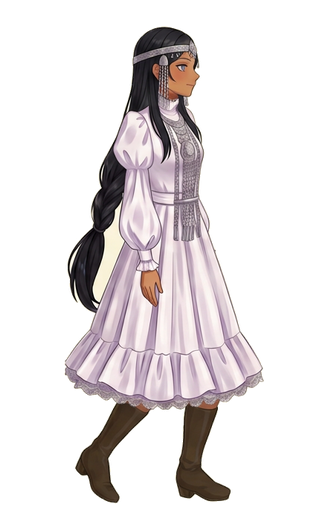
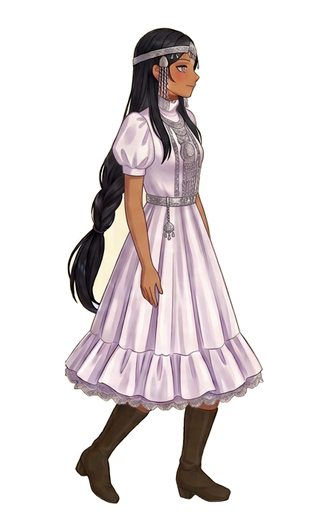
Руки в походке опущены, два кадра прыжка

diff --git a/Concepts/jump/slice_jump.py b/Concepts/jump/slice_jump.py
@@ -1,47 +1,45 @@
-"""Режет лист походки на кадры и кладёт их в Assets/Art/Heroine/Walk.
+"""Режет лист прыжка на 2 кадра и кладёт их в Assets/Art/Heroine/Jump.
 
-Тот же приём, что в Concepts/attack/slice_attack.py: альфа снимается
-заливкой от границы по цвету фона, дыры внутри фигуры вычищаются,
-каждая фигура приводится к общей высоте (иначе в игре пульсирует
-рост), и головы всех кадров ставятся на одну и ту же точку — чтобы
-корпус не ездил влево-вправо и чтобы переход с ходьбы на удар не
-дёргался.
+Почему не полный Concepts/walk/slice_walk.py: тот рассчитан ровно на три
+фигуры в ряд, а модель на листе прыжка даёт три — из них средняя оказалась
+обычным шагом, а не фазой прыжка. Поэтому здесь та же логика (альфа снимается
+заливкой от границы по цвету фона, каждая фигура приводится к общей высоте,
+головы ставятся на одну точку), но берутся фигуры 1 и 3.
 
-Отличия от резальщика атаки:
-  * холст 330 px, а не 560: ходьбе широкий холст не нужен;
-  * пивот остаётся ровно посередине (165 px), как у прежних кадров,
-    поэтому кадры атаки продолжают попадать в ту же точку;
-  * кадров три, а не четыре. Модель надёжно рисует три фигуры в ряд;
-    четыре она уводит в сетку 2x2 и теряет различие поз. Три кадра при
-    9 fps дают те же 0.33 с на цикл, что и четыре при 12.
+Почему не поза с подтянутыми коленями (Concepts/jump/jump_sheet_v1b.png):
+там фигуры 482 и 619 px, разница 28%. Прыжок в платформере обязан держать
+рост: при выравнивании по общей высоте сжатая поза растянулась бы вдвое, а
+без выравнивания прыжок выглядел бы как уменьшение героини. Поэтому взяты
+позы в полный рост (649 и 674 px, разброс 4%) — разлетающиеся руки и коса
+считываются как «в воздухе», а размер остаётся прежним.
+
+Рамка, высота, точка под ступнями и пивот — ровно как у кадров ходьбы, чтобы
+переход ходьба -> прыжок -> ходьба не дёргался.
 """
+import hashlib
 import os
 import re
 import subprocess
-import hashlib
 from collections import deque
 
-SHEET = 'Concepts/walk/walk_sheet_v9a.png'
-OUT_DIR = 'Assets/Art/Heroine/Walk'
+SHEET = 'Concepts/jump/jump_sheet_v1a.png'
+OUT_DIR = 'Assets/Art/Heroine/Jump'
+META_TPL = 'Assets/Art/Heroine/Walk/walk_1.png.meta'
 CANVAS_W, CANVAS_H = 330, 512
-WALK_PIVOT_PX = 165      # пивот прежних кадров: ровно середина холста
-TARGET_H = 479           # общая высота фигуры в пикселях
+TARGET_H = 479           # общая высота фигуры, как у кадров ходьбы
 FEET_Y = 504             # на какой высоте стоят ступни
 HEAD_FRACTION = 0.30
+PICK = (0, 2)           # фигуры 1 и 3, средняя (шаг) пропускается
 
 os.makedirs(OUT_DIR, exist_ok=True)
+
+BG = None
 
 
 def im_size(img):
     a, b = subprocess.run(['identify', '-format', '%w %h', img],
                           capture_output=True, text=True).stdout.split()
     return int(a), int(b)
-
-
-# Фон берём с угла листа, а не задаём порогами: на этом листе он не
-# белый, а кремовый (245, 240, 216), и проверка «все каналы > 236»
-# его не узнавала — весь лист считался одной фигурой.
-BG = None
 
 
 def is_bg(px, i):
@@ -80,8 +78,7 @@ def flood_mask(px, w, h):
 
 
 def clear_enclosed(rgba, mask, w, h):
-    """Вычищает белые дыры, оказавшиеся внутри фигуры (между рукавом и
-    туловищем, между косой и платьем)."""
+    """Вычищает дыры фона, оказавшиеся внутри фигуры."""
     seen = bytearray(w * h)
     q = deque()
     for x in range(w):
@@ -141,8 +138,6 @@ def components(mask, w, h, min_area):
 
 
 def head_centre(mask, w, h, box):
-    """Середина головы по верхним HEAD_FRACTION высоте фигуры: не зависит
-    от позы рук и ног, в отличие от середины всей рамки."""
     x0, y0, x1, y1 = box
     cut = y0 + max(1, int((y1 - y0) * HEAD_FRACTION))
     cols = [x for x in range(x0, x1)
@@ -157,17 +152,18 @@ def alpha_mask(path):
     return px, w, h
 
 
-# --- опорная точка: где голова на НЫНЕШНИХ кадрах ходьбы. Считаем до
-# перезаписи файлов, иначе опорой станет сам себя.
+# --- опорная точка берётся с УЖЕ готовых кадров ходьбы, чтобы в прыжке
+#     корпус не уезжал вбок. Только walk_1..3: walk_4..8 — легаси от
+#     прежнего четырёхкадрового цикла и в среднем сбивали бы точку.
 walk_centres = []
-for i in range(1, 5):
+for i in (1, 2, 3):
     px, w, h = alpha_mask(f'Assets/Art/Heroine/Walk/walk_{i}.png')
     m = bytearray(255 if a > 40 else 0 for a in px[3::4])
     boxes = components(m, w, h, 2000)
     if boxes:
         walk_centres.append(head_centre(m, w, h, max(boxes, key=lambda b: b[1] - b[0])))
 TARGET_HEAD_X = sum(walk_centres) / len(walk_centres)
-print(f'корпус на прежних кадрах ходьбы: {TARGET_HEAD_X:.1f}px '
+print(f'корпус на кадрах ходьбы: {TARGET_HEAD_X:.1f}px '
       f'(разброс {max(walk_centres) - min(walk_centres):.1f}px)')
 
 W, H = im_size(SHEET)
@@ -181,40 +177,41 @@ painted = bytearray(src)
 for i in range(W * H):
     painted[i * 4 + 3] = mask[i]
 fixed, holes = clear_enclosed(bytes(painted), mask, W, H)
-print(f'белых дыр вычищено: {holes}')
+print(f'дыр вычищено: {holes}')
 
 boxes = components(mask, W, H, 2000)
-print('фигур найдено:', len(boxes))
-if len(boxes) != 3:
-    raise SystemExit('ожидалось ровно 3 фигуры')
+print('фигур найдено:', len(boxes), '-> берём', [i + 1 for i in PICK])
+if len(boxes) < 3:
+    raise SystemExit('ожидалось 3 фигуры на листе, чтобы пропустить среднюю')
 
-heights = [b[3] - b[1] for b in boxes]
+picked = [boxes[i] for i in PICK]
+heights = [b[3] - b[1] for b in picked]
 print('высоты в листе:', heights,
       f'разброс {100 * (max(heights) - min(heights)) / min(heights):.1f}%')
+if (max(heights) - min(heights)) / min(heights) > 0.08:
+    raise SystemExit('разброс высот больше 8%: прыжок не должен менять рост')
 scales = [TARGET_H / h for h in heights]
 
-for idx, (x0, y0, x1, y1) in enumerate(boxes, 1):
+for n, (x0, y0, x1, y1) in enumerate(picked, 1):
     fw, fh = x1 - x0, y1 - y0
     crop = bytearray()
     for y in range(y0, y1):
         crop += fixed[(y * W + x0) * 4:(y * W + x1) * 4]
-    tmp = f'/tmp/wk_{idx}.rgba'
+    tmp = f'/tmp/jp_{n}.rgba'
     with open(tmp, 'wb') as f:
         f.write(bytes(crop))
-    scaled = f'/tmp/wk_{idx}_s.png'
-    scale = scales[idx - 1]
+    scaled = f'/tmp/jp_{n}_s.png'
+    scale = scales[n - 1]
     subprocess.run(['convert', '-size', f'{fw}x{fh}', '-depth', '8', f'rgba:{tmp}',
                     '-filter', 'Lanczos', '-resize',
                     f'{int(fw*scale)}x{int(fh*scale)}', scaled], check=True)
     sw, sh = im_size(scaled)
 
-    # после масштабирования ступни должны встать на FEET_Y
     dy = FEET_Y - sh
-    # голова после масштабирования — на ту же опорную точку
     hx = (head_centre(mask, W, H, (x0, y0, x1, y1)) - x0) * scale
     dx = round(TARGET_HEAD_X - hx)
 
-    out = f'{OUT_DIR}/walk_{idx}.png'
+    out = f'{OUT_DIR}/jump_{n}.png'
     left = min(0, dx)
     width = max(CANVAS_W, dx + sw) - left
     subprocess.run(['convert', '-size', f'{width}x{CANVAS_H}', 'xc:none', scaled,
@@ -223,20 +220,31 @@ for idx, (x0, y0, x1, y1) in enumerate(boxes, 1):
                    check=True)
     os.remove(tmp)
     os.remove(scaled)
-    print(f'кадр {idx}: {fw}x{fh} -> {sw}x{sh}, сдвиг {dx:+d}/{dy:+d}, {out}')
+    print(f'кадр {n}: {fw}x{fh} -> {sw}x{sh}, сдвиг {dx:+d}/{dy:+d}, {out}')
 
-    guid = hashlib.md5(('walk-v8-' + str(idx)).encode()).hexdigest()
-    sid = hashlib.md5(('walk-v8-sprite-' + str(idx)).encode()).hexdigest()
-    meta = open('Assets/Art/Heroine/Walk/walk_1.png.meta', encoding='utf-8').read()
+    guid = hashlib.md5(('jump-v1-' + str(n)).encode()).hexdigest()
+    sid = hashlib.md5(('jump-v1-sprite-' + str(n)).encode()).hexdigest()
+    meta = open(META_TPL, encoding='utf-8').read()
     meta = (meta.replace(re.search(r'guid: ([0-9a-f]{32})', meta).group(1), guid)
-                .replace(re.search(r'spriteID: ([0-9a-f]{32})', meta).group(1), sid)
-                .replace('  alignment: 1\n  spritePivot: {x: 0.2946, y: 0.0488}',
-                         '  alignment: 7\n  spritePivot: {x: 0.5, y: 0}'))
-    assert 'alignment: 7' in meta, meta[:200]
-    open(f'{OUT_DIR}/walk_{idx}.png.meta', 'w', encoding='utf-8').write(meta)
+                .replace(re.search(r'spriteID: ([0-9a-f]{32})', meta).group(1), sid))
+    assert 'alignment: 7' in meta and 'spritePivot: {x: 0.5, y: 0}' in meta, meta[:300]
+    open(f'{OUT_DIR}/jump_{n}.png.meta', 'w', encoding='utf-8').write(meta)
+    print(f'  guid {guid}')
 
-subprocess.run(['convert'] + [f'{OUT_DIR}/walk_{i}.png' for i in range(1, 4)]
+# мета папки
+folder = hashlib.md5(b'heroine-jump-folder').hexdigest()
+open(f'{OUT_DIR}.meta', 'w', encoding='utf-8').write(
+    'fileFormatVersion: 2\n'
+    f'guid: {folder}\n'
+    'folderAsset: yes\n'
+    'DefaultImporter:\n'
+    '  externalObjects: {}\n'
+    '  userData: \n'
+    '  assetBundleName: \n'
+    '  assetBundleVariant: \n')
+
+subprocess.run(['convert'] + [f'{OUT_DIR}/jump_{i}.png' for i in (1, 2)]
                + ['+append', '-background', '#2b2f3a', '-bordercolor', '#2b2f3a',
-                  '-border', '6', '/tmp/walk_preview.png'], check=True)
-print('превью: /tmp/walk_preview.png')
-print(f'пивот кадров: 0.5000 ({WALK_PIVOT_PX}px на холсте {CANVAS_W})')
+                  '-border', '6', '/tmp/jump_preview.png'], check=True)
+print('превью: /tmp/jump_preview.png')
+print('пивот кадров: 0.5000 (165px на холсте 330)')

diff --git a/Concepts/level_build.py b/Concepts/level_build.py
@@ -475,14 +475,19 @@ assert n == 1, f'спрайт героини: {n}'
 # 12 fps давали цикл 0.67 с, то есть 1.78 роста пути за цикл: ноги
 # переступали вдвое реже, чем шёл корпус, и это читалось как скольжение.
 # Четыре кадра на тех же 12 fps дают 0.33 с ~= 0.9 роста — почти натура.
+JUMP = ['6daf268587750afe7fbb340b4fe37705',     # взлёт: руки согнуты у груди
+        '336c0b56e3212ee017ac0d1395292e71']     # падение: руки в стороны, коса вверх
 ATTACK = ['dc1783b3a5c9607e12c781b8f88ebef7',   # замах
           'e58d2f83e7543184b89c6ebf520dc6f6',   # выпад с ножом
           'be4bc24d2bc77d76f96772ae3e2efa11']   # возврат
 frames = '\n'.join(
     f'  - {{fileID: 21300000, guid: {g}, type: 3}}' for g in
-    ['fbb4210db713f8fb5cdae1e8920be5b8',   # walk_1 — контакт, передняя рука вперёд
-     'c46dd459691fd1dd598775d241a19a84',   # walk_2 — пронос, обе руки опущены
-     '30d934941ae7437c05aed5354e92af3f'])  # walk_3 — второй контакт, руки наоборот
+    ['fbb4210db713f8fb5cdae1e8920be5b8',   # walk_1 — контакт, нога вперёд
+     'c46dd459691fd1dd598775d241a19a84',   # walk_2 — пронос, корпус ровный
+     '30d934941ae7437c05aed5354e92af3f'])  # walk_3 — второй контакт
+# Обе руки в каждом кадре висят вдоль тела, слегка согнуты, и поднимаются
+# ровно настолько же, как левая: прежний вариант выбрасывал правую руку
+# вперёд на уровень пояса, и шаг читался как нелепый взмах.
 s, n = re.subn(
     r'(--- !u!114 &400000006\nMonoBehaviour:.*?  m_EditorClassIdentifier: \n)'
     r'(?:(?!--- !u!).)*',
@@ -503,6 +508,9 @@ s, n = re.subn(
         '  walkFps: 9\n'
         '  idleSprite: {fileID: 21300000, guid: ' + IDLE_GUID
         + ', type: 3}\n'
+        '  jumpFrames:\n' + '\n'.join(
+            f'  - {{fileID: 21300000, guid: {g}, type: 3}}' for g in JUMP) + '\n'
+        '  jumpFallSpeed: 0.1\n'
         '  attackFrames:\n' + '\n'.join(
             f'  - {{fileID: 21300000, guid: {g}, type: 3}}' for g in ATTACK) + '\n'
         '  attackDuration: 0.32\n  attackCooldown: 0.1\n'

diff --git a/Assets/Scripts/PlayerController.cs b/Assets/Scripts/PlayerController.cs
@@ -78,6 +78,10 @@ public class PlayerController : MonoBehaviour
     public float walkFps = 12f;
     [Tooltip("Спрайт, когда героиня стоит на месте")]
     public Sprite idleSprite;
+    [Tooltip("Кадры прыжка по порядку: взлёт, падение (нарисованы лицом вправо)")]
+    public Sprite[] jumpFrames;
+    [Tooltip("С какой вертикальной скорости показывается падающий кадр, юниты/с")]
+    public float jumpFallSpeed = 0.1f;
 
     [Header("Если упала с края")]
     [Tooltip("Ниже этой высоты героиня возвращается в точку старта")]
@@ -419,6 +423,21 @@ public class PlayerController : MonoBehaviour
             return;
         }
 
+        // В воздухе — кадры прыжка: взлёт, пока ещё летит вверх, и падение,
+        // как только начала опускаться. Кадры взяты в полный рост, поэтому
+        // переход ходьба -> прыжок не меняет размер фигуры.
+        if (!grounded && jumpFrames != null && jumpFrames.Length > 0)
+        {
+            int frame = body.velocity.y > jumpFallSpeed ? 0 : jumpFrames.Length - 1;
+            if (frame != shownFrame)
+            {
+                shownFrame = frame;
+                spriteRenderer.sprite = jumpFrames[frame];
+            }
+            spriteRenderer.flipX = face < 0f;
+            return;
+        }
+
         // Шагаем, только если реально идём по земле
         bool walking = grounded
                     && Mathf.Abs(move) > 0.01f
@@ -439,7 +458,7 @@ public class PlayerController : MonoBehaviour
         {
             animTimer = 0f;
             shownFrame = -1;
-            // В воздухе держим последний кадр, на земле — позу покоя
+            // Стоим на месте — поза покоя
             if (grounded && idleSprite != null)
                 spriteRenderer.sprite = idleSprite;
         }
